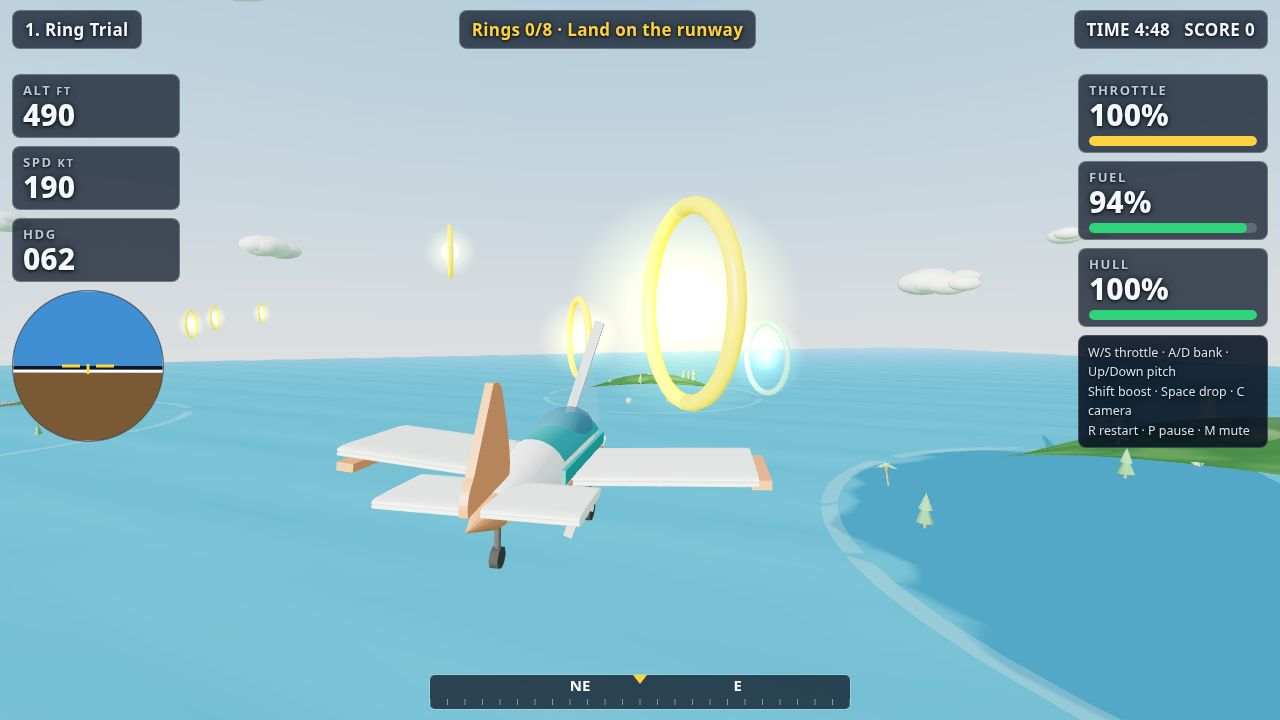
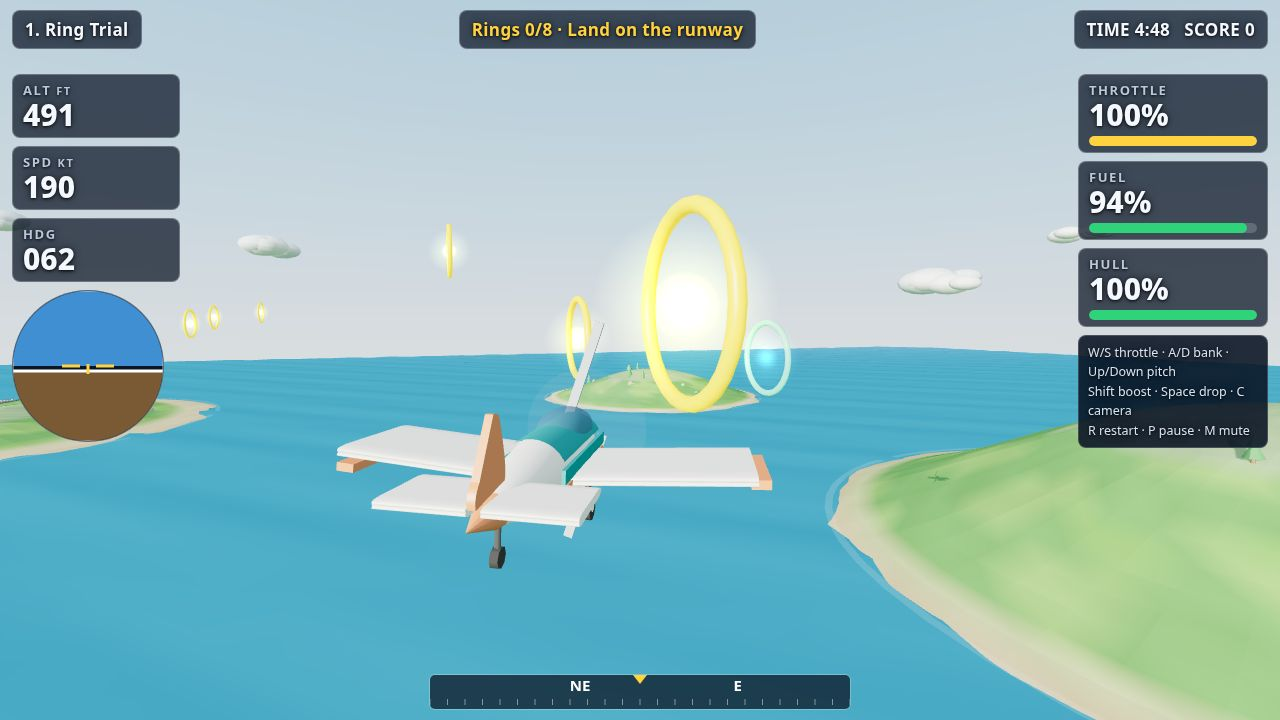
Visual fix: islands read as land, shoreline and water contrast

diff --git a/game/src/terrain.js b/game/src/terrain.js
@@ -70,9 +70,9 @@ export function createTerrain(seed) {
 
   // --- islands: analytic hills first, meshes built to match ---
   const islands = [];
-  const home = { x: 0, z: 0, r: 330, h: 26 };
+  const home = { x: 0, z: 0, r: 360, h: 32 };
   islands.push(home);
-  const far = { x: 1500, z: -420, r: 300, h: 22 };
+  const far = { x: 1500, z: -420, r: 340, h: 28 };
   islands.push(far);
   const spots = [
     // 56, not 74: this peak sits beside a Grand Tour cargo pad, and the
@@ -80,12 +80,12 @@ export function createTerrain(seed) {
     // only metres to spare — at 74 m the turn clips the peak, at 56 m
     // either turn direction clears it by a wide margin.
     { x: -780, z: 620, r: 260, h: 56 },
-    { x: 620, z: 820, r: 300, h: 88 },
-    { x: -1250, z: -760, r: 280, h: 64 },
-    { x: 1050, z: -1180, r: 240, h: 52 },
-    { x: -420, z: -1350, r: 260, h: 96 },
-    { x: 1500, z: 700, r: 220, h: 44 },
-    { x: -1600, z: 120, r: 230, h: 58 },
+    { x: 620, z: 820, r: 300, h: 98 },
+    { x: -1250, z: -760, r: 280, h: 74 },
+    { x: 1050, z: -1180, r: 240, h: 62 },
+    { x: -420, z: -1350, r: 260, h: 108 },
+    { x: 1500, z: 700, r: 220, h: 54 },
+    { x: -1600, z: 120, r: 230, h: 68 },
   ];
   for (const spot of spots) islands.push(spot);
 
@@ -102,7 +102,12 @@ export function createTerrain(seed) {
     const d = Math.sqrt(dx * dx + dz * dz);
     if (d >= island.r) return 0;
     const t = d / island.r;
-    return island.h * (0.5 + 0.5 * Math.cos(Math.PI * t)) + 2.5 * (1 - t);
+    // Power 0.7, not a plain cosine: a cosine dome is flat at the
+    // shoreline, so its outer fifth is a near-sea-level shelf the waves
+    // wash over and the eye reads as water. The power curve rises
+    // steeply from the waterline, so the beach is a narrow dry tan band
+    // and the green starts well above the waves.
+    return island.h * Math.pow(0.5 + 0.5 * Math.cos(Math.PI * t), 0.7) + 2.5 * (1 - t);
   }
 
   // Deterministic ridge detail: a few long sine waves per island, fading
@@ -205,7 +210,7 @@ export function createTerrain(seed) {
     const mid = new THREE.Color(0x6fb1e6);
     // Pale blue, not cream: a warm horizon band blew out to white under
     // ACES tone mapping and washed the whole sky out of the cover shot.
-    const horizon = new THREE.Color(0xcfe0f0);
+    const horizon = new THREE.Color(0xbdd8ec);
     const c = new THREE.Color();
     for (let i = 0; i < pos.count; i += 1) {
       const t = clamp01(pos.getY(i) / 4200); // 0 at horizon, 1 at zenith
@@ -222,13 +227,16 @@ export function createTerrain(seed) {
     group.add(sky);
   }
 
-  // --- sea: a fine grid with a sun-glinting Phong surface; the renderer
-  // animates its vertices into slow rolling waves. ---
+  // --- sea: a fine grid with a deep blue surface; the renderer animates
+  // its vertices into slow rolling waves. The specular is deliberately
+  // dim (a bright sun-glint turned the whole sea into a white mirror
+  // streak from the air) and the colour is deep, so water never shares
+  // a value with sand or foam. ---
   const seaGeo = new THREE.PlaneGeometry(WORLD.extent * 3.4, WORLD.extent * 3.4, 150, 150);
   const sea = new THREE.Mesh(
     seaGeo,
     new THREE.MeshPhongMaterial({
-      color: PALETTE.sea, specular: 0xcfe8ff, shininess: 110,
+      color: PALETTE.sea, specular: 0x274b5e, shininess: 40,
     }),
   );
   sea.rotation.x = -Math.PI / 2;
@@ -299,6 +307,13 @@ export function createTerrain(seed) {
         colours.push(c.r, c.g, c.b);
       }
     }
+    // Winding: (a, b, d) / (b, e, d) — inner ring, then outer ring. The
+    // rings run +X toward +Z as the angle grows, so the old order
+    // (a, d, b) wound every dome triangle clockwise seen from above and
+    // its front face pointed DOWN: the whole dome was backface-culled
+    // from the air and the sea showed straight through the island, which
+    // is why every island read as a blue lagoon inside a white foam
+    // ring. This order faces up and out.
     const ringStart = (ring) => 1 + (ring - 1) * SEG;
     for (let s = 0; s < SEG; s += 1) {
       indices.push(0, ringStart(1) + ((s + 1) % SEG), ringStart(1) + s);
@@ -309,7 +324,7 @@ export function createTerrain(seed) {
         const b = ringStart(ring) + ((s + 1) % SEG);
         const d = ringStart(ring + 1) + s;
         const e = ringStart(ring + 1) + ((s + 1) % SEG);
-        indices.push(a, d, b, b, d, e);
+        indices.push(a, b, d, b, e, d);
       }
     }
     // Skirt: a sand cliff from the shoreline down under the water.
@@ -326,7 +341,7 @@ export function createTerrain(seed) {
       const b = ringStart(RINGS) + ((s + 1) % SEG);
       const d = skirtStart + s;
       const e = skirtStart + ((s + 1) % SEG);
-      indices.push(a, d, b, b, d, e);
+      indices.push(a, b, d, b, e, d);
     }
     const geo = new THREE.BufferGeometry();
     geo.setAttribute('position', new THREE.Float32BufferAttribute(positions, 3));
@@ -342,13 +357,14 @@ export function createTerrain(seed) {
 
     // Foam ring where the waves meet the sand: a thin shoreline line, not
     // a wide halo (the old 10%-wide ring read as a giant white halo from
-    // the air and swamped the bottom of the takeoff shot).
+    // the air and swamped the bottom of the takeoff shot), and a ring,
+    // never a disc: its interior is the island, not more water.
     const foam = new THREE.Mesh(
-      new THREE.RingGeometry(island.r * 0.99, island.r * 1.035, 56),
-      new THREE.MeshBasicMaterial({ color: PALETTE.seaFoam, transparent: true, opacity: 0.3 }),
+      new THREE.RingGeometry(island.r * 1.005, island.r * 1.025, 56),
+      new THREE.MeshBasicMaterial({ color: PALETTE.seaFoam, transparent: true, opacity: 0.22 }),
     );
     foam.rotation.x = -Math.PI / 2;
-    foam.position.set(island.x, 0.7, island.z);
+    foam.position.set(island.x, 0.9, island.z);
     group.add(foam);
 
     // Trees: pines on the high ground, palms down by the beach. Dense

diff --git a/game/src/render.js b/game/src/render.js
@@ -50,7 +50,9 @@ export function createRenderer(canvas, terrain) {
   scene.add(terrain.group);
 
   // Hemisphere light: blue sky from above, warm ground bounce from below.
-  const hemi = new THREE.HemisphereLight(0xbfd9f2, 0x4a7a52, 0.85);
+  // 0.7, not 0.85: the stronger fill washed the grass to pale mint and
+  // tinted the white wings green from underneath.
+  const hemi = new THREE.HemisphereLight(0xbfd9f2, 0x4a7a52, 0.7);
   scene.add(hemi);
   // The sun: warm directional light with a shadow camera that follows
   // the plane, so the plane's shadow stays in frame wherever she flies.
@@ -93,13 +95,13 @@ export function createRenderer(canvas, terrain) {
 
   function ringGlowMesh(x, y, z, colour) {
     // A 110 m halo whites out the frame when the camera flies up to a
-    // ring; 70 m still reads as a glow without swallowing the sky.
+    // ring; 64 m still reads as a glow without swallowing the sky.
     const sprite = new THREE.Sprite(new THREE.SpriteMaterial({
       map: glowTexture, color: colour, transparent: true, opacity: 0.32,
       blending: THREE.AdditiveBlending, depthWrite: false,
     }));
     sprite.position.set(x, y, z);
-    sprite.scale.set(70, 70, 1);
+    sprite.scale.set(64, 64, 1);
     return sprite;
   }
 
@@ -224,6 +226,12 @@ export function createRenderer(canvas, terrain) {
   const camPos = new THREE.Vector3(-30, 20, 0);
   const camLook = new THREE.Vector3(0, 10, 0);
 
+  // Fixed diagnostic camera pose (setDiagPose): when set, it overrides
+  // the chase camera entirely, so a ?shot=diag-* scene can frame the
+  // terrain from any angle instead of from behind the plane.
+
+  let diagPose = null;
+
   /** Where the chase / close camera wants to be for this flight state. */
   function chasePose(flight, cameraMode) {
     const fx = Math.cos(flight.heading) * Math.cos(flight.pitch);
@@ -284,9 +292,13 @@ export function createRenderer(canvas, terrain) {
     addCrate,
     setStorm,
     resize,
+    /** Pin the camera to a fixed diagnostic pose (diag shots only). */
+    setDiagPose(pos, look) {
+      diagPose = { pos: { x: pos.x, y: pos.y, z: pos.z }, look: { x: look.x, y: look.y, z: look.z } };
+    },
     /** Jump the camera straight behind the plane (mission start, shot staging). */
     snap(flight, cameraMode) {
-      const pose = chasePose(flight, cameraMode);
+      const pose = diagPose ?? chasePose(flight, cameraMode);
       camPos.set(pose.pos.x, pose.pos.y, pose.pos.z);
       camLook.set(pose.look.x, pose.look.y, pose.look.z);
     },
@@ -296,8 +308,9 @@ export function createRenderer(canvas, terrain) {
       aircraft.pose(flight, time);
 
       // Camera: chase view sits behind and above the plane; the close view
-      // (C) rides just behind the canopy, cockpit-style.
-      const pose = chasePose(flight, cameraMode);
+      // (C) rides just behind the canopy, cockpit-style. A diagnostic pose
+      // overrides the chase camera outright.
+      const pose = diagPose ?? chasePose(flight, cameraMode);
       const k = cameraMode === 'close' ? 0.5 : 1 - Math.pow(0.001, dt);
       camPos.x += (pose.pos.x - camPos.x) * k;
       camPos.y += (pose.pos.y - camPos.y) * k;
@@ -353,16 +366,18 @@ export function createRenderer(canvas, terrain) {
         }
       }
       // Ring halos pulse with their ring and fade once it is passed.
+      // Kept small and dim: the old 110 m halo at 0.75 opacity white-outed
+      // the centre of the cover shot.
       for (const glow of ringGlows) {
         const ring = glow.userData.ring;
         if (ring.passed) {
           glow.material.opacity = Math.max(0.05, glow.material.opacity - dt * 0.8);
-          glow.scale.set(110, 110, 1);
+          glow.scale.set(88, 88, 1);
         } else {
           const isNext = mission && mission.rings[mission.nextRing] === ring;
-          const s = isNext ? 110 * pulse : 96;
+          const s = isNext ? 88 * pulse : 80;
           glow.scale.set(s, s, 1);
-          glow.material.opacity = isNext ? 0.75 : 0.5;
+          glow.material.opacity = isNext ? 0.55 : 0.4;
         }
       }
       for (const mesh of fuelMeshes) {

diff --git a/game/src/shots.js b/game/src/shots.js
@@ -31,6 +31,25 @@ function clamp(value, min, max) {
  */
 export function stageShot(name, app) {
   const shot = name || 'cover';
+  if (shot === 'diag-top') {
+    // High oblique over the home runway island: does the strip sit on
+    // land, and what do the shoreline, sand band and foam ring really
+    // look like from above? Diagnostic only, not a submitted screenshot.
+    app.startMission(0, 'runway');
+    app.setDiagPose({ x: 520, y: 640, z: 520 }, { x: -40, y: 12, z: -20 });
+    return 'Ring Trial';
+  }
+  if (shot === 'diag-low') {
+    // Low pass at the shoreline of the (1500, 700) island, the one whose
+    // foam ring reads as a pale-blue lagoon in the rings shot.
+    app.startMission(0, 'runway');
+    app.setFlight({
+      x: 980, y: 62, z: 700, heading: 0, pitch: 0, bank: 0,
+      speedKt: 90, throttle: 0.6, airborne: true,
+    });
+    app.setDiagPose({ x: 960, y: 58, z: 700 }, { x: 1500, y: 30, z: 700 });
+    return 'Ring Trial';
+  }
   if (shot === 'takeoff') {
     // Mission 2, on the home runway: full throttle, rotate and climb.
     // 8 s, not 6: at 6 s she is still rotating hard and the chase camera
@@ -68,14 +87,20 @@ export function stageShot(name, app) {
     }
     return 'Ring Trial';
   }
-  // Cover: mission 1, flown toward the fourth ring so a glowing ring, the
-  // islands and sea, and the far runway island all sit in frame. 16 s, not
-  // 17: at 17 s the camera is on top of the ring and its halo whites out
-  // the sky; a second earlier the whole ring sits ahead in frame.
+  // Cover: mission 1, flown gently toward the rings for 9 s. The bank is
+  // clamped so she flies almost level (the old 16 s full-bank run had
+  // her rolled hard sideways with the ring glow white-outing the centre).
+  // 9 s, not 12: at 12 s she is already on top of the second ring and
+  // its torus fills the frame as a yellow wall. A glowing ring ahead,
+  // the home runway island behind, and green islands with a clear
+  // land/water boundary in frame.
   app.startMission(0, 'runway');
-  const steps = Math.round(16 / STEP);
+  const steps = Math.round(9 / STEP);
   for (let i = 0; i < steps; i += 1) {
-    app.stepFixed(autopilotInput(app.flight, app.currentTarget()));
+    const ctl = autopilotInput(app.flight, app.currentTarget());
+    ctl.bankAxis = Math.max(-0.35, Math.min(0.35, ctl.bankAxis));
+    ctl.pitchAxis = Math.max(-0.3, Math.min(0.3, ctl.pitchAxis));
+    app.stepFixed(ctl);
   }
   return 'Ring Trial';
 }

diff --git a/game/src/aircraft.js b/game/src/aircraft.js
@@ -124,6 +124,9 @@ export function createAircraft() {
   finShape.lineTo(-1.1, 0.9);
   finShape.quadraticCurveTo(-1.6, 0.5, -1.5, 0);
   const fin = new THREE.Mesh(new THREE.ExtrudeGeometry(finShape, { depth: 0.24, bevelEnabled: false }), orangeMat);
+  // 0.72 scale: the full-size fin was a huge orange triangle that
+  // dominated the whole plane silhouette in the chase view.
+  fin.scale.set(0.72, 0.72, 1);
   fin.position.set(-6.3, 0.6, -0.12);
   fin.rotation.z = 0.12;
   fin.castShadow = true;
@@ -168,15 +171,21 @@ export function createAircraft() {
     prop.add(blade);
   }
   const disc = new THREE.Mesh(
-    new THREE.CircleGeometry(3.15, 28),
+    new THREE.CircleGeometry(3.0, 28),
     new THREE.MeshBasicMaterial({
       // Mid grey-blue, not near-white: edge-on from the chase camera the
       // disc is a thin line below the nose, and a bright line reads as
       // the old prop stick. Faint is correct for a spinning prop.
-      color: 0x7d99ad, transparent: true, opacity: 0.15,
+      color: 0x7d99ad, transparent: true, opacity: 0.12,
       side: THREE.DoubleSide, depthWrite: false,
     }),
   );
+  // The disc must lie in the YZ plane (facing forward, +X): CircleGeometry
+  // is born in the XY plane, and unrotated it spins with the prop group
+  // into a plane that contains the X axis — seen from the chase camera
+  // it projects to a single vertical white stick below the nose, which
+  // is exactly the stick the overhaul was supposed to remove.
+  disc.rotation.y = Math.PI / 2;
   disc.position.x = 0.55;
   disc.name = 'propDisc';
   prop.add(disc);
@@ -234,7 +243,7 @@ export function createAircraft() {
       if (strobeMesh) strobeMesh.visible = Math.sin(time * 6) > 0.85;
       // The blur disc only reads while the prop is turning.
       const discMesh = group.getObjectByName('propDisc');
-      if (discMesh) discMesh.material.opacity = flight.throttle > 0.05 ? 0.18 : 0.08;
+      if (discMesh) discMesh.material.opacity = flight.throttle > 0.05 ? 0.12 : 0.06;
     },
   };
 }

diff --git a/game/src/config.js b/game/src/config.js
@@ -7,10 +7,13 @@ export const STEP = 1 / 60;
 export const WORLD = {
   extent: 1800,          // islands live inside +/- extent on x and z
   seaLevel: 0,
-  fogNear: 900,
-  fogFar: 4200,
+  // Fog starts well past the islands the camera actually looks at: the
+  // old near=900 washed every island past a kilometre toward pale blue,
+  // so land and water met in the same washed-out value.
+  fogNear: 1500,
+  fogFar: 5200,
   skyTop: '#2f6fb8',
-  fogColour: '#c8dcec',
+  fogColour: '#9ec2de',
 };
 
 export const PLANE = {
@@ -56,14 +59,18 @@ export const SCORE = {
 };
 
 export const PALETTE = {
-  sea: 0x1770a8,
-  seaDeep: 0x0f4f7d,
+  // Deep sea, saturated grass, tan sand: land and water must never share
+  // a value. The old sea (0x1770a8) rendered as pale sky-blue (83,168,199)
+  // under the lights and fog, and the old grass (0x58a047) as pale mint —
+  // at 768 px wide the boundary between them was guesswork.
+  sea: 0x0d5c8f,
+  seaDeep: 0x0a4e7d,
   seaFoam: 0xeaf6f0,
-  sand: 0xe2cb96,
-  sandWet: 0xc9ab72,
-  grass: 0x58a047,
-  grassDark: 0x3d7f38,
-  grassLight: 0x7cbb58,
+  sand: 0xd9b878,
+  sandWet: 0xb08d55,
+  grass: 0x37851f,
+  grassDark: 0x2a6628,
+  grassLight: 0x5a9a34,
   hill: 0x6fae52,
   rock: 0x8d8578,
   rockDark: 0x6b655a,
@@ -79,9 +86,9 @@ export const PALETTE = {
   tail: 0xe4572e,
   canopy: 0x1c3d5e,
   prop: 0x222222,
-  pine: 0x2e6b34,
-  pineLight: 0x3a7d3f,
-  palm: 0x4da34a,
+  pine: 0x256b2c,
+  pineLight: 0x2f7d33,
+  palm: 0x3d8f3a,
   trunk: 0x6b4a2a,
   hangarWall: 0xf2ead8,
   hangarRoof: 0x0f6b6e,

diff --git a/game/src/main.js b/game/src/main.js
@@ -338,6 +338,8 @@ function runShot(name) {
     stepFixed,
     currentTarget,
     landingTarget,
+    setDiagPose(pos, look) { renderer.setDiagPose(pos, look); },
+    setFlight(patch) { Object.assign(flight, patch); },
     get flight() {
       return flight;
     },
